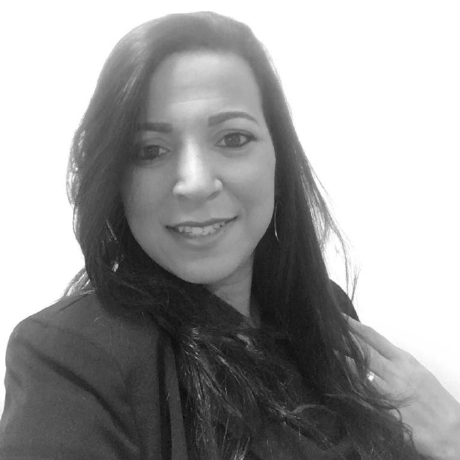
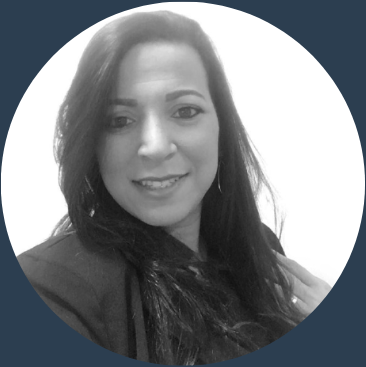
Alteradas imagens do time,Ajustes nos arquivos html base,visualizarpedido,visualizarproduto,produto,pedido,listaclientes,home,cadastro

diff --git a/templates/base.html b/templates/base.html
@@ -53,8 +53,9 @@
         <div class="collapse navbar-collapse" id="navbarResponsive">
           <ul class="navbar-nav ms-auto">
             <li class="nav-item mx-0 mx-lg-1">
-              <a class="nav-link py-3 px-0 px-lg-3 rounded" href="/cadastro"
-                >Cadastro Clientes</a
+              <a class="nav-link py-3 px-0 px-lg-3 rounded"
+                href="cadastro/"
+               >Cadastro Clientes</a
               >
             </li>
             <li class="nav-item mx-0 mx-lg-1">
@@ -122,16 +123,16 @@
       <div class="row">
         <h4 class="text-uppercase mb-4">Team</h4>
           <div class="col-md-3 img">
-            <img class="img-fluid" src="static/images/Fernanda.png" alt="..." />
+            <img class="img-fluid" src="static/images/Nanda.png" alt="..." />
           </div>
           <div class="col-md-3">
-            <img class="img-fluid" src="static/images/Leticia.jpeg" alt="..." />
+            <img class="img-fluid" src="static/images/Leticia.png" alt="..." />
           </div>
           <div class="col-md-3">
             <img class="img-fluid" src="static/images/Mariana.png" alt="..." />
           </div>
           <div class="col-md-3">
-            <img class="img-fluid" src="static/images/Raquel.jpeg" alt="..." />
+            <img class="img-fluid" src="static/images/Raquel.png" alt="..." />
           </div>
         </div>
       </div>

diff --git a/jsm_app/templates/home.html b/jsm_app/templates/home.html
@@ -215,18 +215,7 @@
             </p>
           </div>
         </div>
-        <!-- About Section Button-->
-        <div class="text-center mt-4">
-          <a
-            class="btn btn-xl btn-outline-light"
-            href="https://startbootstrap.com/theme/freelancer/"
-          >
-            <i class="fas fa-download me-2"></i>
-            Free Download!
-          </a>
-        </div>
-      </div>
-    
+            
     <!-- Copyright Section-->
     <div class="copyright py-4 text-center text-white">
       <div class="container">

diff --git a/jsm_app/templates/pedido.html b/jsm_app/templates/pedido.html
@@ -14,12 +14,14 @@
         </div>
 
         <div class="col-md">
+            <br><br><br><br>
             <h2>Cadastro de Pedido</h2>
             <hr>{% comment %}  para colocar uma linha abaixo do Cadastro de Pedido {% endcomment %}
   
             <form action="{% url 'pedido' %}" method="POST">{% csrf_token %}
                 {{ form.as_p }}
                 <input class="dados-btn" type="submit" value="continuar" />
+                <br><br>
             </form>
         </div>
 

diff --git a/jsm_app/templates/produto.html b/jsm_app/templates/produto.html
@@ -14,12 +14,14 @@
     </div>
 
     <div class="col-md">
+      <br><br><br><br>
       <h2>Cadastro de Produtos</h2>
         <hr>{% comment %}  para colocar uma linha abaixo do Cadastro de Produtos {% endcomment %}
   
       <form action="{% url 'produto' %}" method="POST">
         {% csrf_token %} {{ form.as_p }}
         <input class="dados-btn" type="submit" value="continuar" />
+        <br><br>
       </form>
     </div>
 

diff --git a/jsm_app/templates/listaclientes.html b/jsm_app/templates/listaclientes.html
@@ -13,6 +13,7 @@
       </div>
   
       <div class="col-md">
+        <br><br><br>
         <h1>Lista de Clientes</h1>
         <hr>{% comment %}  para colocar uma linha abaixo do Lista de clientes {% endcomment %}
   
@@ -21,7 +22,7 @@
             Email: {{ usuario.email}},<br>
             
         {% endfor %}
-  
+        <br><br><br>
       </div>
   
       <div class="col-md">

diff --git a/jsm_app/templates/visualizarproduto.html b/jsm_app/templates/visualizarproduto.html
@@ -15,6 +15,7 @@
         </div>
   
         <div class="col-md">
+            <br><br>
             <h1>Lista de Produtos</h1>
             <hr>{% comment %}  para colocar uma linha abaixo do Lista de Produtos {% endcomment %}
   

diff --git a/jsm_app/templates/visualizarpedido.html b/jsm_app/templates/visualizarpedido.html
@@ -13,6 +13,7 @@
         </div>
   
         <div class="col-md">
+            <br><br>
             <h1>Lista de Pedidos</h1>
             <hr>{% comment %}  para colocar uma linha abaixo do Lista de Pedidos {% endcomment %}
   

diff --git a/jsm_app/templates/cadastro.html b/jsm_app/templates/cadastro.html
@@ -36,7 +36,7 @@
       Erro interno do sistema
     </div>
   {% endif %}
-
+    
   <div class="row">
 
     <div class="col-md">
@@ -65,5 +65,7 @@
     <div class="col-md">
       
     </div>
+
+    
 {% endblock %}
 

diff --git a/jsm_app/views.py b/jsm_app/views.py
@@ -37,7 +37,6 @@ def validar_login(request):
     return HttpResponse(f"{email} {senha}")
 
 
-
 def logout(request):
     request.session.flush()  # vai deslogar o usuario
     return redirect('/login/')
@@ -122,17 +121,14 @@ def listaclientes(request):
     }
     return render(request, 'listaclientes.html', clientes)
 
+
 def pedido(request):
-    if request.session.get('usuario'):
-        form = PedidoForm(request.POST or None)
-    else:
-        return redirect('/login/?status=2')
+    form = PedidoForm(request.POST or None)
     if form.is_valid():
         form.save()
         form = PedidoForm()
     context = {'form': form}
     return render(request, 'pedido.html', context)
-    
 
 
 class PedidoViewSet(viewsets.ModelViewSet):
@@ -146,8 +142,3 @@ def visualizarpedido(request):
     response = render(request, 'visualizarpedido.html',
                       context)  # django.http.HttpResponse
     return render(request, 'visualizarpedido.html', context)
-
-
-
-
-

diff --git a/jsm_app/migrations/0005_alter_pedido_cliente.py b/jsm_app/migrations/0005_alter_pedido_cliente.py
@@ -1,0 +1,19 @@
+# Generated by Django 3.2.15 on 2022-08-13 21:03
+
+from django.db import migrations, models
+import django.db.models.deletion
+
+
+class Migration(migrations.Migration):
+
+    dependencies = [
+        ('jsm_app', '0004_usuario'),
+    ]
+
+    operations = [
+        migrations.AlterField(
+            model_name='pedido',
+            name='cliente',
+            field=models.ForeignKey(on_delete=django.db.models.deletion.CASCADE, to='jsm_app.usuario'),
+        ),
+    ]

diff --git a/jsm_app/models.py b/jsm_app/models.py
@@ -60,7 +60,7 @@ class Produto(models.Model):
         upload_to='images/', default='images/default.png')
 
     def __str__(self):
-        return self.nome
+        return f"{self.nome} - {self.valor}"
 
 
 class Pedido(models.Model):
